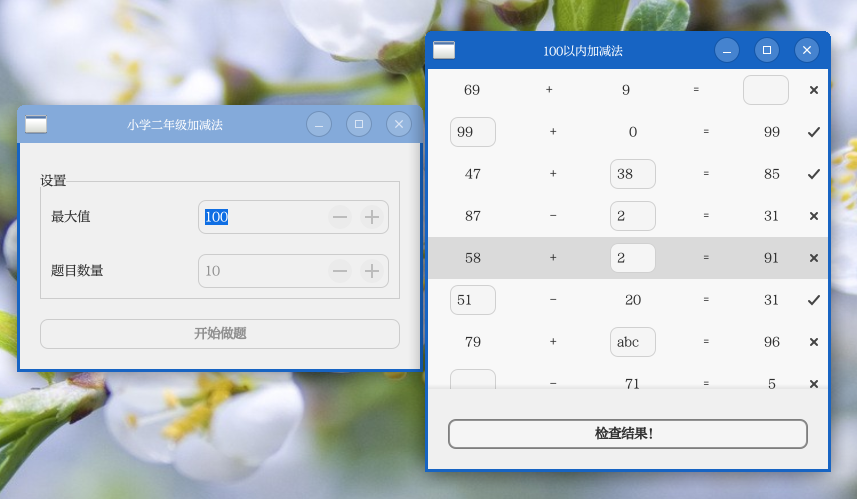
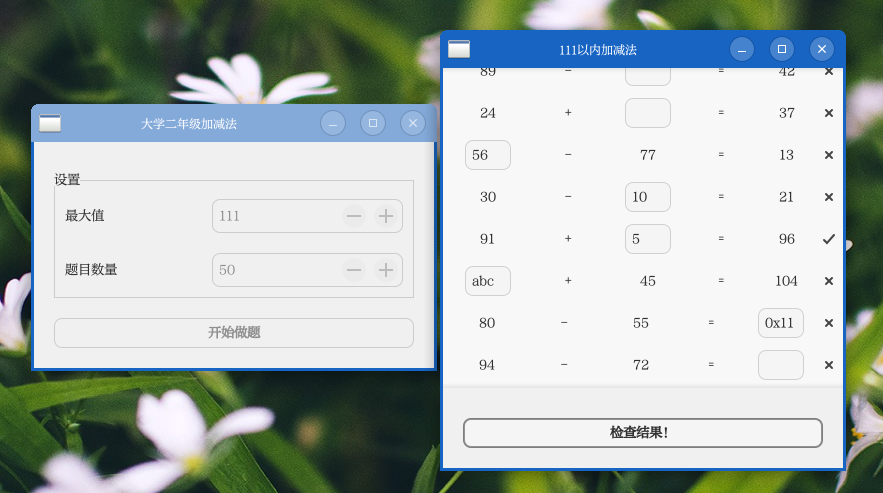
.

diff --git a/src/main.rs b/src/main.rs
@@ -48,7 +48,7 @@ fn setup_ui(app: &Application) {
 		.application(app)
 		.default_height(200)
 		.default_width(400)
-		.title("小学二年级加减法")
+		.title("大学二年级加减法")
 		.child(&main_layout)
 		.build();
 
